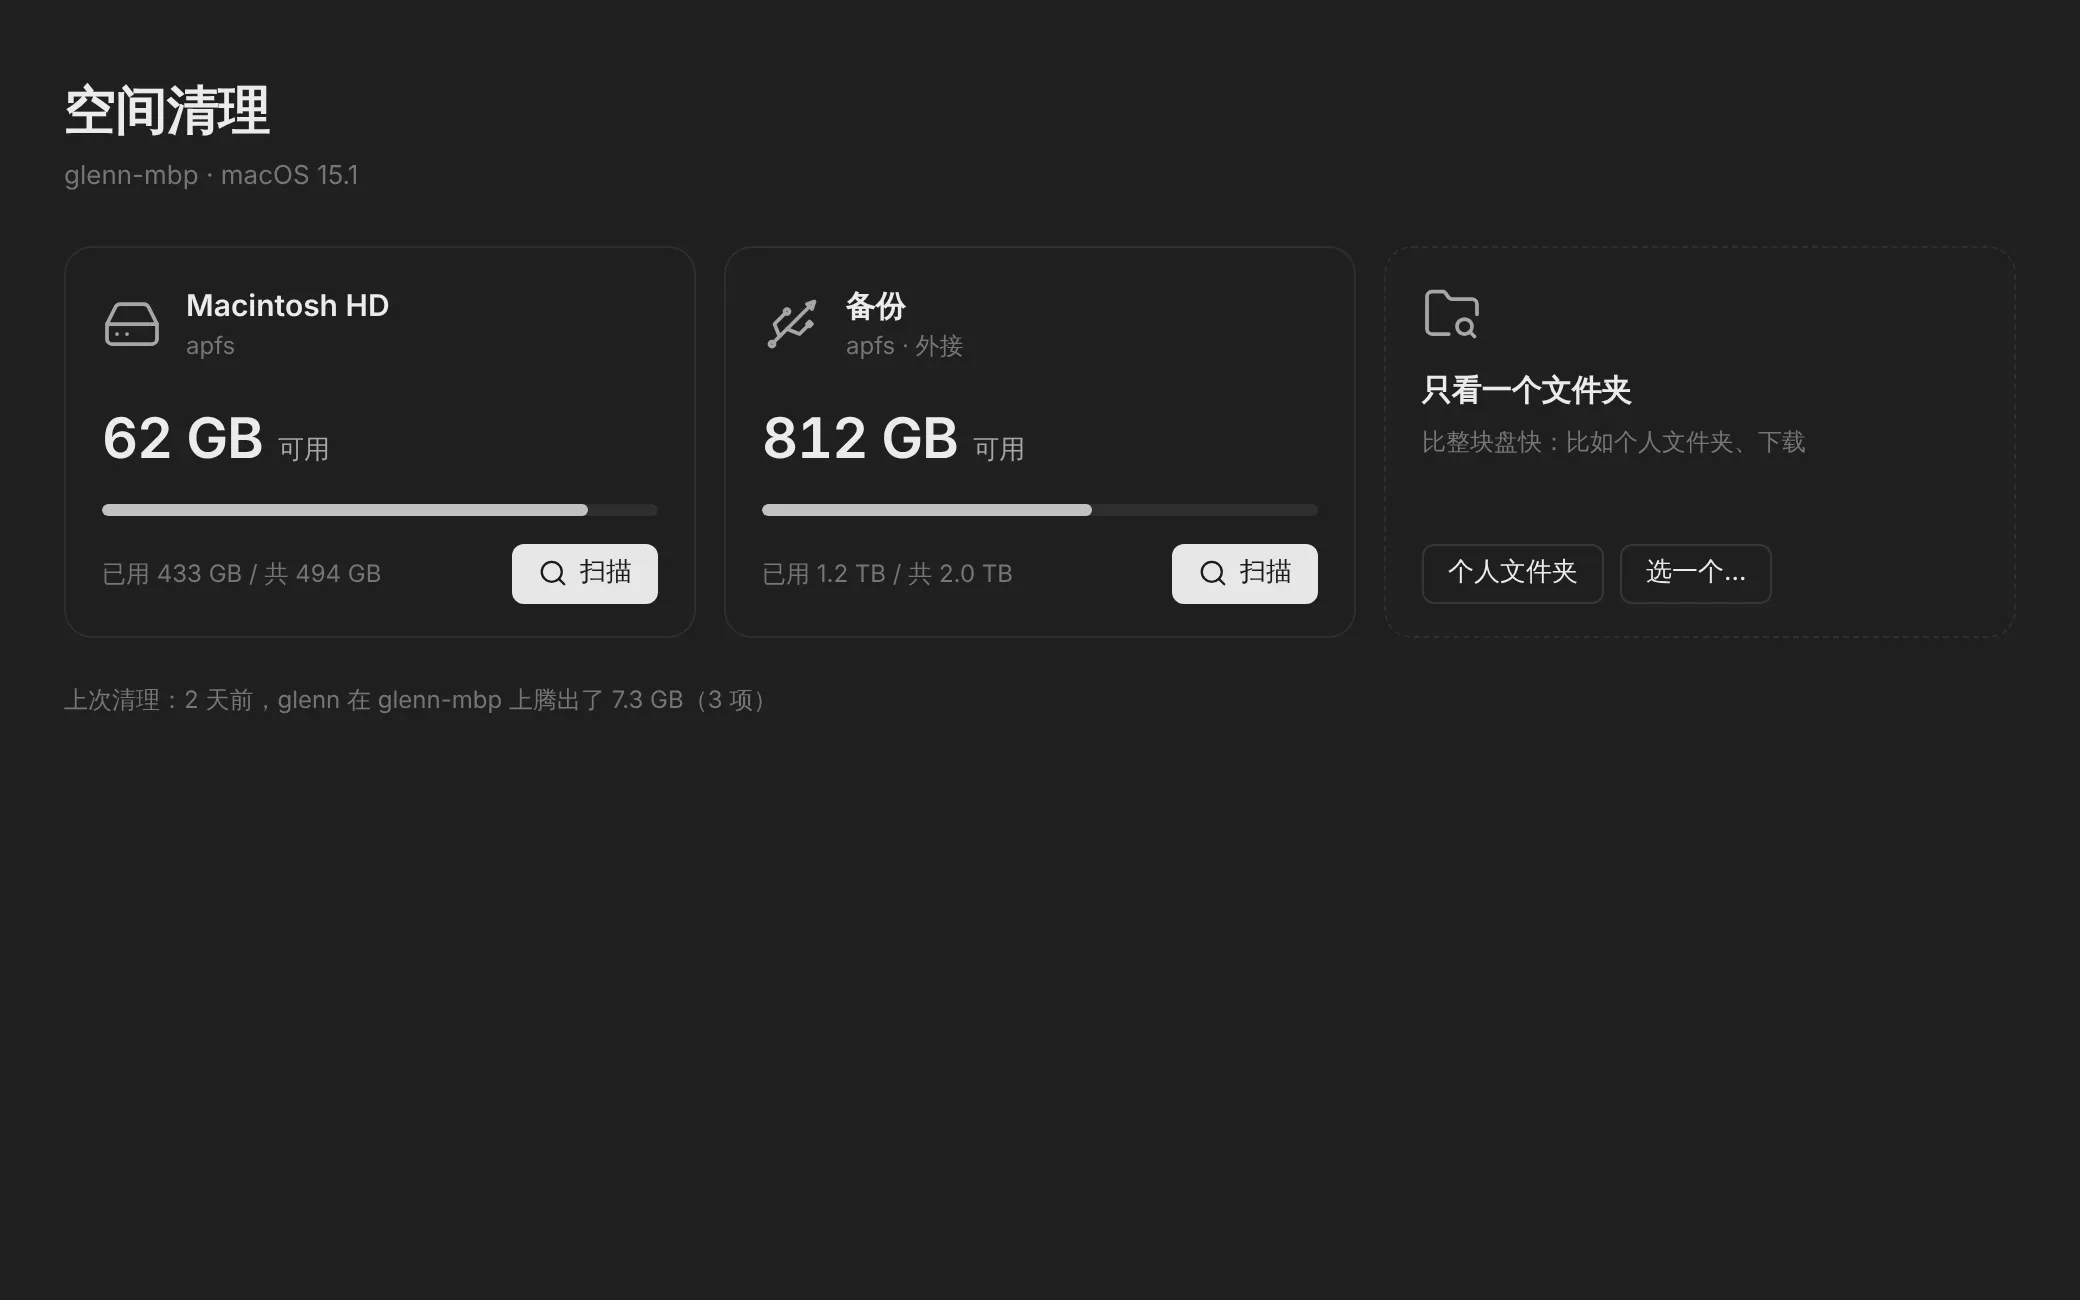
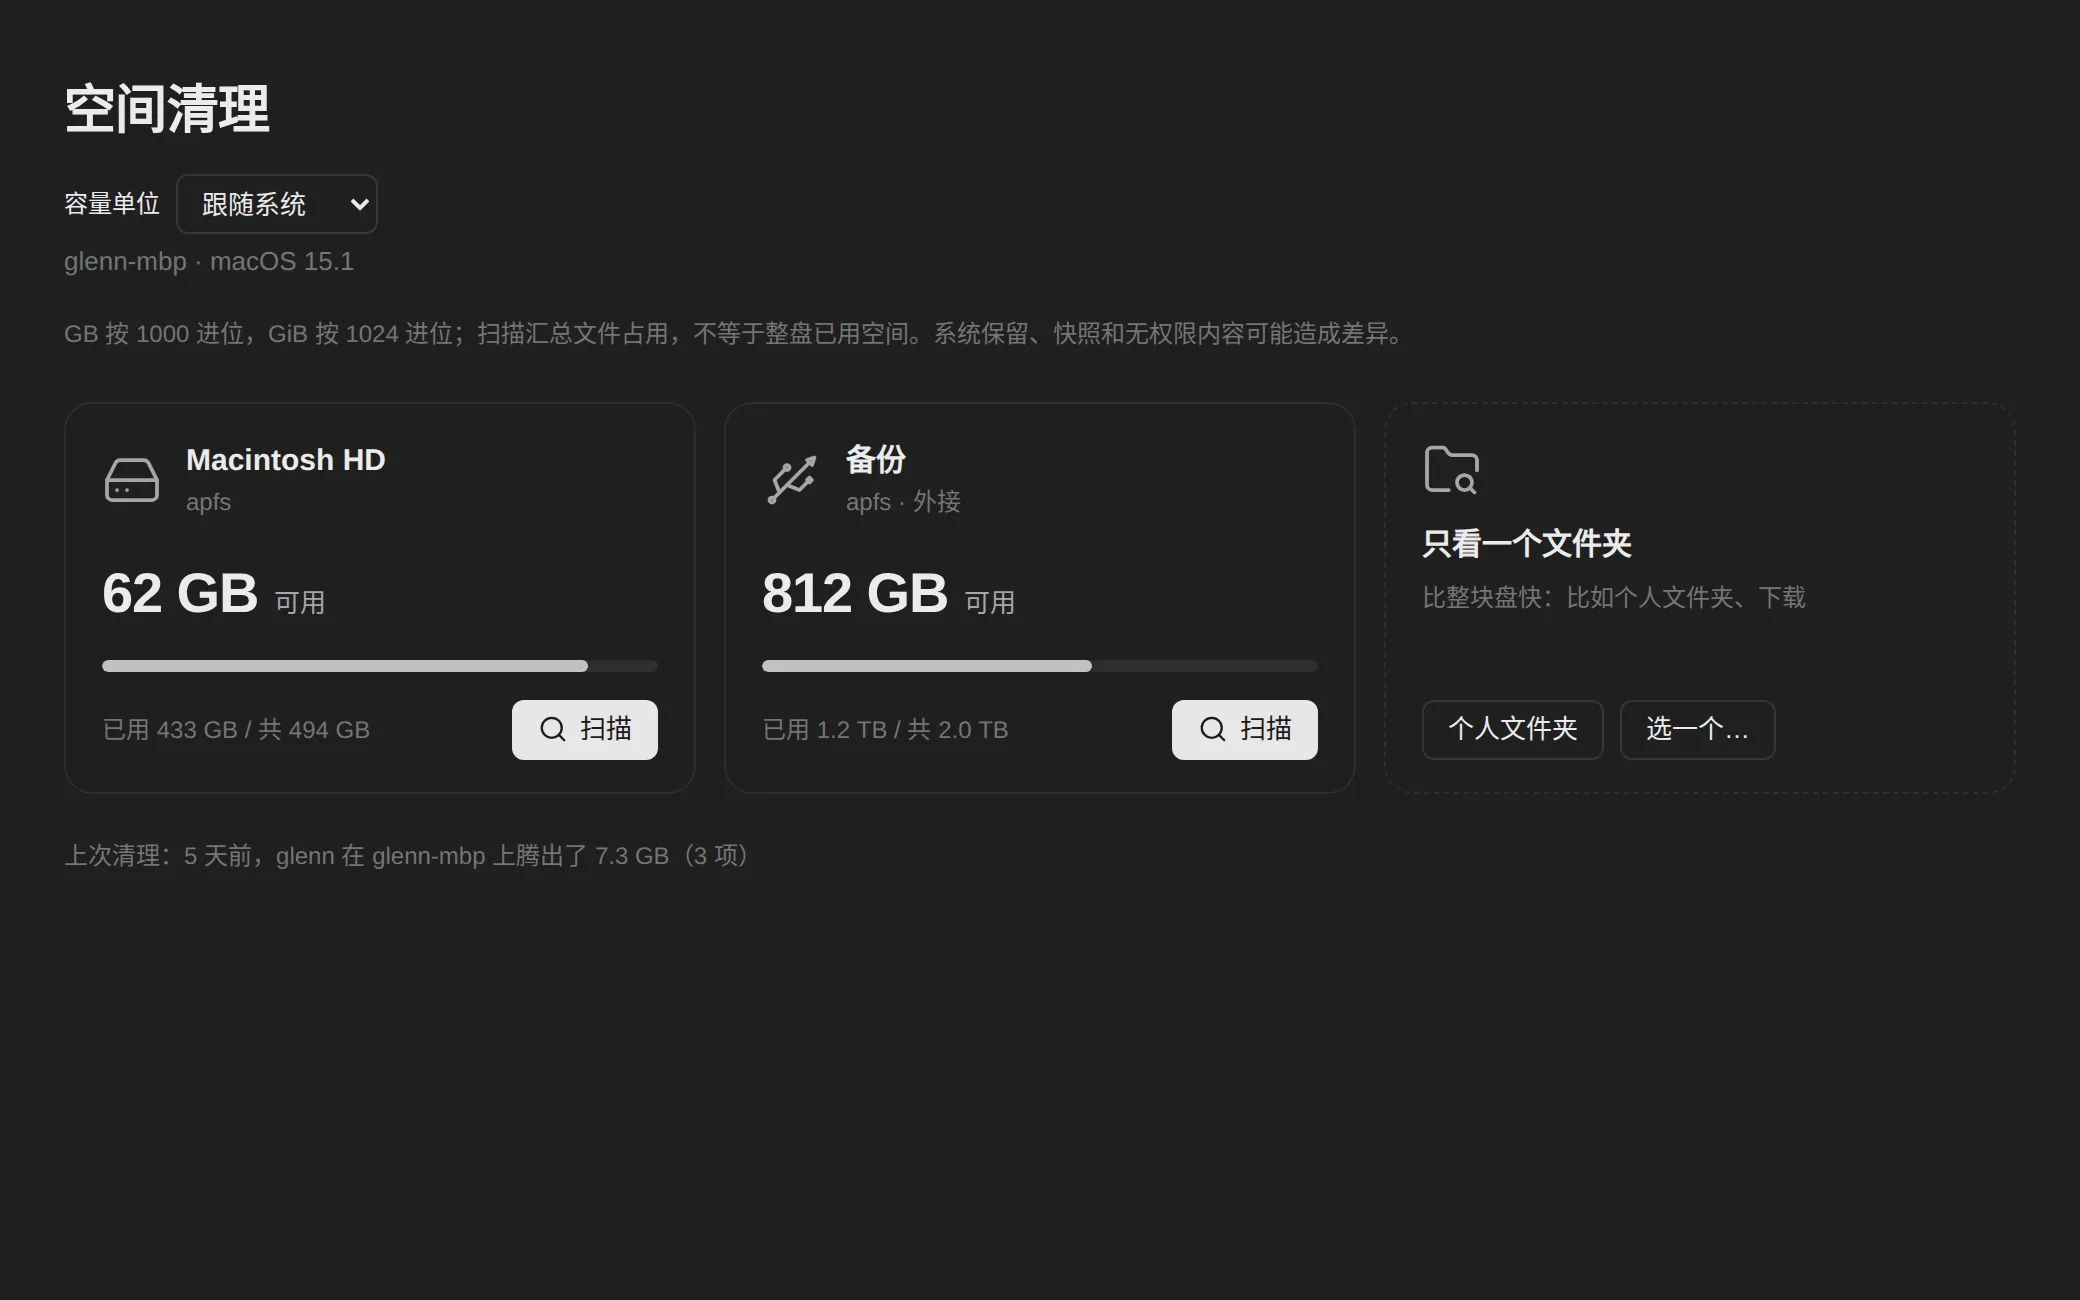
Correct Windows disk allocation and clarify capacity units

diff --git a/templates/src/disk/main.tsx b/templates/src/disk/main.tsx
@@ -13,7 +13,7 @@ import {
 } from "lucide-react";
 import { mount, useKit, Toast } from "../_lib/appkit";
 import type { OSDisk, OSScan, OSScanNode } from "../_lib/myco";
-import { OSError, basename, formatBytes, has, os, osState, osStateText, useJob, useOS } from "../_lib/os";
+import { OSError, basename, formatBytes as bytes, has, os, osState, osStateText, useJob, useOS } from "../_lib/os";
 import { cleanups, kit, Tree } from "./model";
 import { Sunburst, colorOf, layout, type Seg } from "./sunburst";
 
@@ -60,6 +60,10 @@ function App() {
   useKit(kit);
   const sys = useOS();
   const dark = useDark();
+  const [unit, setUnit] = useState(() => { try { return localStorage.getItem("myco-disk-unit") || "auto"; } catch { return "auto"; } });
+  const binary = unit === "binary" || (unit === "auto" && sys.info?.os === "windows");
+  const formatBytes = (n: number) => bytes(n, { binary });
+  const unitPicker = <label className="dk-units">{uiText("容量单位")} <select className="sel" aria-label={uiText("容量单位")} value={unit} onChange={e => { setUnit(e.target.value); try { localStorage.setItem("myco-disk-unit", e.target.value); } catch { /* private storage */ } }}><option value="auto">{uiText("跟随系统")}</option><option value="decimal">GB · 1000</option><option value="binary">GiB · 1024</option></select></label>;
   const [disks, setDisks] = useState<OSDisk[] | null>(null);
   const [diskErr, setDiskErr] = useState("");
   const [target, setTarget] = useState<Target | null>(null);
@@ -180,7 +184,7 @@ function App() {
     const secs = Math.max(0, Math.round((Date.now() - started.current) / 1000));
     // a disk: how much of what is used on it has been read (an estimate: a
     // disk holds a little more than its files)
-    const used = target?.disk ? target.disk.total - target.disk.available : 0;
+    const used = target?.disk ? Math.max(0, target.disk.total - target.disk.available) : 0;
     const share = used ? Math.min(0.99, (p?.disk || 0) / used) : 0;
     return (
       <div className="dk-scanning" style={{ ["--glow" as string]: p?.top?.[0] ? scanColor(p, 0, used, dark) : "transparent" }}>
@@ -224,7 +228,7 @@ function App() {
               </span>
             ))}
           </nav>
-          <span className="top-gap" />
+          <span className="top-gap" />{unitPicker}
           {target.disk && <span className="dk-free">{uiText("可用")}{" "}<b>{formatBytes(target.disk.available)}</b></span>}
           <button type="button" className="icon-btn" title={uiText("重新扫描")} onClick={() => void start(target)}><RefreshCw className="ico" /></button>
         </header>
@@ -238,7 +242,7 @@ function App() {
         )}
         <div className="dk-body">
           <section className="dk-map">
-            <Sunburst node={at} levels={LEVELS} dark={dark} hover={hover} busy={refining} canUp={chain.length > 1}
+            <Sunburst formatSize={formatBytes} node={at} levels={LEVELS} dark={dark} hover={hover} busy={refining} canUp={chain.length > 1}
               onHover={(k) => setHover(k)} onOpen={onSeg} onUp={up} />
             <div className="dk-legend">
               {hoverSeg ? (hoverSeg.more ? uiText("{0} 里 {1} 个更小的项目", hoverSeg.parent.name, hoverSeg.parent.more) : ltr(hoverSeg.node!.path))
@@ -280,7 +284,7 @@ function App() {
               )}
               {tab === "here" && !kids.length && !(at.more || 0) && <div className="dk-none">{uiText("这里是空的")}</div>}
               {tab === "largest" && scan.largest.filter((f) => f.path.startsWith(at.path)).slice(0, 100).map((f) => {
-                const it: Item = { path: f.path, name: basename(f.path), disk: f.disk || f.size, size: f.size, files: 1, dir: false };
+                const it: Item = { path: f.path, name: basename(f.path), disk: f.disk ?? f.size, size: f.size, files: 1, dir: false };
                 const taken = inBasket(f.path);
                 return (
                   <div key={f.path} role="listitem" className={`dk-row${taken ? " is-taken" : ""}`} draggable onDragStart={(e) => drag(e, it)}>
@@ -340,14 +344,14 @@ function App() {
   return (
     <div className="dk-home">
       <header className="dk-home-head">
-        <h1>{uiText("空间清理")}</h1>
+        <h1>{uiText("空间清理")}</h1>{unitPicker}
         <p className="faint">{sys.info ? `${sys.info.hostname} · ${sys.info.name} ${sys.info.version}` : " "}</p>
       </header>
       {job.error && job.error.code !== "cancelled" && <div className="dk-warn"><ShieldAlert className="ico" />{job.error.message}</div>}
       {diskErr && <div className="dk-warn"><ShieldAlert className="ico" />{diskErr}</div>}
-      <div className="dk-disks">
+      <p className="dk-accounting faint">{uiText("GB 按 1000 进位，GiB 按 1024 进位；扫描汇总文件占用，不等于整盘已用空间。系统保留、快照和无权限内容可能造成差异。")}</p><div className="dk-disks">
         {(disks || []).map((d) => {
-          const used = d.total - d.available;
+          const used = Math.max(0, d.total - d.available);
           const pct = d.total ? (used / d.total) * 100 : 0;
           return (
             <article key={d.mount} className="dk-disk">

diff --git a/templates/src/disk/sunburst.tsx b/templates/src/disk/sunburst.tsx
@@ -5,7 +5,7 @@ import { t as uiText } from "../_lib/i18n";
 // smaller items folded together are grey.
 import { useMemo } from "react";
 import type { OSScanNode } from "../_lib/myco";
-import { formatBytes } from "../_lib/os";
+
 
 export type Seg = {
   key: string; node: OSScanNode | null; parent: OSScanNode; depth: number; a0: number; a1: number;
@@ -62,8 +62,8 @@ function arc(r0: number, r1: number, a0: number, a1: number, c: number) {
 
 const SIZE = 600, C = SIZE / 2, R = 292, R0 = 96;
 
-export function Sunburst({ node, levels, dark, hover, onHover, onOpen, onUp, canUp, busy }: {
-  node: OSScanNode; levels: number; dark: boolean; hover: string | null; busy: boolean; canUp: boolean;
+export function Sunburst({ node, levels, dark, hover, onHover, onOpen, onUp, canUp, busy, formatSize }: {
+  formatSize: (bytes: number) => string; node: OSScanNode; levels: number; dark: boolean; hover: string | null; busy: boolean; canUp: boolean;
   onHover: (key: string | null, s: Seg | null) => void; onOpen: (s: Seg) => void; onUp: () => void;
 }) {
   const segs = useMemo(() => layout(node, levels), [node, node.disk, node.children, levels]);
@@ -95,7 +95,7 @@ export function Sunburst({ node, levels, dark, hover, onHover, onOpen, onUp, can
       </g>
       <circle cx={C} cy={C} r={R0 - 6} className={`sb-mid${canUp ? " can-up" : ""}`} onClick={onUp} onMouseEnter={() => onHover(null, null)} />
       <text x={C} y={C - 16} className="sb-name">{clip(label.name, 18)}</text>
-      <text x={C} y={C + 16} className="sb-size">{formatBytes(label.disk)}</text>
+      <text x={C} y={C + 16} className="sb-size">{formatSize(label.disk)}</text>
       <text x={C} y={C + 40} className="sb-hint">{shown ? (shown.node?.dir ? uiText("点开看里面") : shown.more ? uiText("太小，没有分开画") : `${label.files ? uiText("文件") : ""}`) : canUp ? uiText("点中间回上一层") : uiText("{0} 个文件", label.files.toLocaleString())}</text>
     </svg>
   );

diff --git a/templates/src/disk/disk.css b/templates/src/disk/disk.css
@@ -148,3 +148,5 @@
   .dk-side { width: auto; border-left: 0; border-top: 1px solid var(--line2); }
   .dk-list { overflow: visible; }
 }
+
+.dk-units{display:inline-flex;align-items:center;gap:8px;font-size:12px;flex-shrink:0}.dk-home-head .dk-units{margin-top:12px}.dk-accounting{max-width:980px;margin:16px auto;font-size:12px;line-height:1.7}.dk-top{flex-wrap:wrap;height:auto;min-height:50px}.dk-top .dk-units .sel{max-width:140px}
